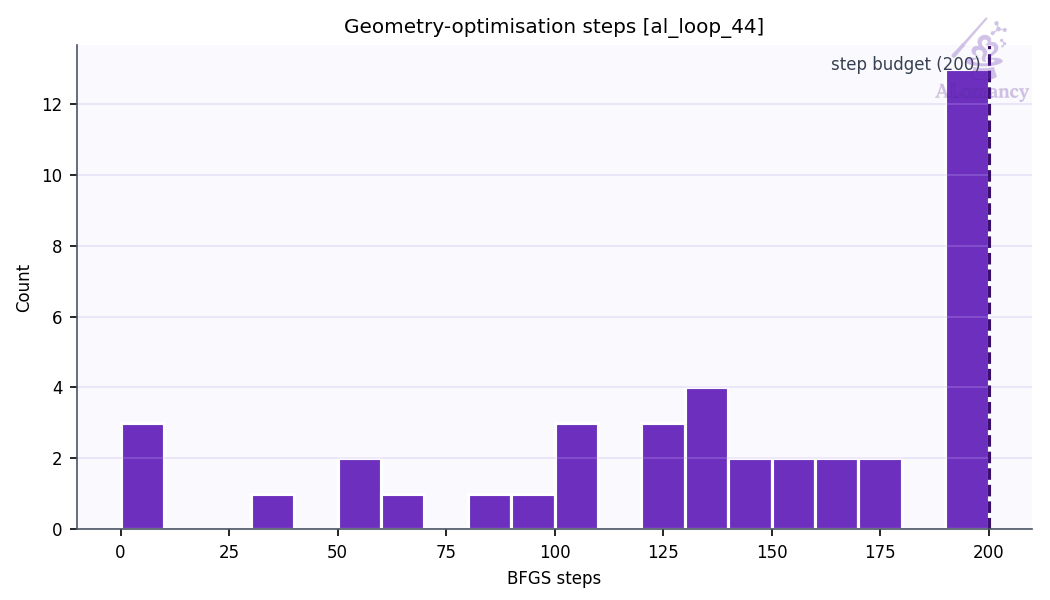
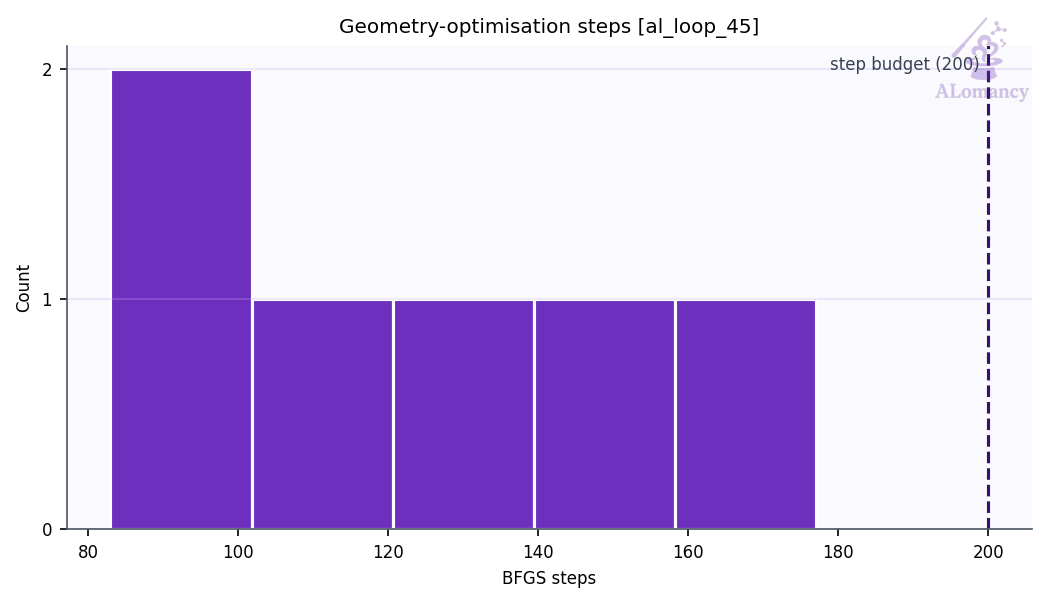
update good_c, yun_an

diff --git a/alomancy/yun_an/report/report.md b/alomancy/yun_an/report/report.md
@@ -1,36 +1,28 @@
-# ALomancy report: al_loop_44
+# ALomancy report: al_loop_45
 
-Workflow `committee_uncertainty` · trainer `mace` · generator `md` · evaluator `qe` · generated 2026-10-30T05:42:37
+Workflow `committee_uncertainty` · trainer `mace` · generator `md` · evaluator `qe` · generated 2026-10-31T11:51:28
 
-**Status:** ✖ 2 errors · ⚠ 4 warnings · 33 warning(s) logged
+**Status:** ✖ 2 errors · ⚠ 1 warning · 💡 1 info · 100 warning(s) logged
 
 ## Headline
 
-| | loop 43 | loop 44 | change |
+| | loop 44 | loop 45 | change |
 |---|---:|---:|---:|
-| Best model test force MAE (eV/Å) | 0.473 | 0.346 | -27% |
-| Best model test energy MAE (meV/atom) | 189 | 144 | -24% |
-| Training structures | 1.97e+03 | 2e+03 | +1% |
-| Test structures | 96 | 100 | +4% |
-| New structures this loop | 57 | 40 | -30% |
-| Warnings / errors logged | 39 | 33 | -15% |
+| Best model test force MAE (eV/Å) | 0.346 | 0.412 | +19% |
+| Best model test energy MAE (meV/atom) | 144 | 156 | +8% |
+| Training structures | 2e+03 | 2.01e+03 | +1% |
+| Test structures | 100 | 101 | +1% |
+| New structures this loop | 40 | 6 | -85% |
+| Warnings / errors logged | 33 | 100 | +203% |
 
-Best model: fit_3 of 5 (chosen on the `valid` split).
+Best model: fit_4 of 5 (chosen on the `valid` split).
 
 ## Issues & suggestions
 
-- ✖ **remote_jobs_failed**: 29/92 remote jobs (32%) failed (8) or died (21). Check the job logs (results/alomancy.log has each failure's traceback); jobs killed by the scheduler usually need a longer max_time for that phase, or a partition with more memory.
-- ✖ **dft_partial_failure**: 15/55 structures sent to DFT (27%) came back without a result. Check the DFT output in results/<loop>/high_accuracy_evaluation; raise high_accuracy_evaluation.max_time / max_go_time if jobs timed out.
-- ⚠ **go_not_converged**: 11/40 geometry optimisations (28%) stopped at the step budget (200 steps) before reaching the force ceiling. Raise high_accuracy_evaluation.max_num_of_relax_steps, or raise high_accuracy_evaluation.force_ceiling (now 0.05 eV/Å) so they stop earlier. Non-converged structures are still kept as training data.
-- ⚠ **short_bond_excluded**: 225/280 structures (80%) were dropped for a bond shorter than 0.5 Å. The model is driving MD into collisions: lower md_kwargs.temperature or md_kwargs.timestep_fs, or add more short-range initialization data (dimers/trimers).
-- ⚠ **fewer_candidates**: Only 55 candidates were available for 100 requested structures. Generate more: raise md_kwargs.steps or structure_selection_kwargs.num_of_md_starts.
-- ⚠ **few_candidates_generated**: Structure generation produced only 55 usable candidates, less than twice the 100 structures added per loop, so the selector had little to choose from. Raise structure_generation.num_of_structures_to_generate (and md_kwargs.steps or structure_selection_kwargs.num_of_md_starts if MD runs end early).
-
-<details><summary>Suggestions file notes</summary>
-
-- suggestions entry `selection_redundant_shortfall` has no trigger (typo?)
-
-</details>
+- ✖ **remote_jobs_failed**: 97/136 remote jobs (71%) failed (85) or died (12). Check the job logs (results/alomancy.log has each failure's traceback); jobs killed by the scheduler usually need a longer max_time for that phase, or a partition with more memory.
+- ✖ **dft_partial_failure**: 94/100 structures sent to DFT (94%) came back without a result. Check the DFT output in results/<loop>/high_accuracy_evaluation; raise high_accuracy_evaluation.max_time / max_go_time if jobs timed out.
+- ⚠ **short_bond_excluded**: 2072/3745 structures (55%) were dropped for a bond shorter than 0.5 Å. The model is driving MD into collisions: lower md_kwargs.temperature or md_kwargs.timestep_fs, or add more short-range initialization data (dimers/trimers).
+- 💡 **overfitting**: The best model's test force MAE (0.412 eV/Å) is 2.5x its training MAE (0.165 eV/Å). The test set covers configurations training doesn't: keep adding data, or raise general.dataset_kwargs.valid_fraction to select models on held-out data.
 
 ## Trends
 
@@ -45,6 +37,7 @@ Best model: fit_3 of 5 (chosen on the `valid` split).
 | 42 | 0.333 | 1926 | 34 | 34/45 | 76% | 0 | 31 |
 | 43 | 0.473 | 1971 | 57 | 57/75 | 77% | 3 | 39 |
 | 44 | 0.346 | 1997 | 40 | 40/55 | 72% | 5 | 33 |
+| 45 | 0.412 | 2007 | 6 | 6/100 | 100% | 0 | 100 |
 
 ![Best-model MAE per loop](plots/training_al_loop_mae_plot.png)
 
@@ -54,7 +47,7 @@ Best model: fit_3 of 5 (chosen on the `valid` split).
 
 ![Best model parity](plots/best_model_parity.png)
 
-Median relative error: train energy 2.3%, force 20.5%; test energy 1.8%, force 242.6%.
+Median relative error: train energy 4.3%, force 18.6%; test energy 1.8%, force 214.7%.
 Energies with |formation energy| < 0.05 eV/atom and atoms with |F| < 0.1 eV/Å are left out; force error is |ΔF|/|F| per atom.
 
 ![Best model percentage error](plots/best_model_percent_error.png)
@@ -64,16 +57,17 @@ Energies with |formation energy| < 0.05 eV/atom and atoms with |F| < 0.1 eV/Å a
 | config_type | Train | Test | Excluded: redundant | Excluded: quality filter | total |
 |---|---:|---:|---:|---:|---:|
 | IsolatedAtom | 5 | 0 | 0 | 0 | 5 |
-| high_sd | 596 | 84 | 56 | 346 | 1082 |
+| high_sd | 606 | 85 | 28 | 375 | 1094 |
 | init_MP | 69 | 4 | 0 | 0 | 73 |
 | init_amorphous | 67 | 12 | 8 | 0 | 87 |
 | init_dimer | 299 | 0 | 0 | 0 | 299 |
 | init_stretch_compress | 390 | 0 | 0 | 398 | 788 |
 | init_trimer | 571 | 0 | 0 | 0 | 571 |
-| **all** | **1997** | **100** | **64** | **744** | **2905** |
+| **all** | **2007** | **101** | **36** | **773** | **2917** |
 
-- Redundancy removal: 64 structure(s) flagged in total, 5 of this loop's 40 new.
-- Quality filters: high_force: 742, formation_energy: 174.
+- Redundancy removal: 36 structure(s) flagged in total, 0 of this loop's 6 new.
+- DFT geometry-optimisation starting frames: 6 stored this loop, 0 used (the rest excluded by the train/test filters or redundancy removal).
+- Quality filters: high_force: 771, formation_energy: 181.
 
 ![Training set composition](plots/training_set_composition.png)
 
@@ -81,28 +75,28 @@ Energies with |formation energy| < 0.05 eV/atom and atoms with |F| < 0.1 eV/Å a
 
 Redundancy removal flags near-duplicate training structures, so the model isn't trained on many copies of the same geometry. Each structure is described by `char_vec_128`: all of its interatomic distances, sorted and resampled to 128 values (`global_descriptor/atomic_distance_descriptor.make_char_vec`). Two structures count as duplicates when the Euclidean distance between their descriptors is below a tolerance: in database order, each structure still in the training set is kept unless it is within the tolerance of one already kept. The plot sweeps that tolerance and counts how many structures are kept at each value. **We are looking for plateaus** (shaded): ranges where the count doesn't change, so the result doesn't depend on the exact tolerance. The orange line (right axis) is the number of structures removed between consecutive tolerance steps, the gradient of the count: zero on a plateau. The start of the lowest plateau at least `general.redundancy_kwargs.min_plateau_width` of the swept range wide is used (dashed line). Nothing is flagged when no plateau qualifies, or when it would flag more than `max_flagged_fraction` of the structures; `general.redundancy_kwargs.tolerance` sets the tolerance directly.
 
-- This loop: 742 structures probed, tolerance 0.0398, 10 flagged as duplicates (8 plateau(s) found).
+- This loop: 778 structures probed, tolerance 0.0398, 36 flagged as duplicates (8 plateau(s) found).
 
 ![Redundancy tolerance probe](plots/redundancy_tolerance_probe.png)
 
 ## DFT
 
-- Structures: 40 returned of 55 submitted (40 relaxed, 0 single point).
-- Geometry optimisation: 29/40 reached the force ceiling (0.05 eV/Å); steps mean 136.9, median 142, max 200 of 200 allowed.
-- Average DFT time per relaxation: 277.1 min (median 287.4, max 581.5; 40 structures).
-- Largest per-atom force after DFT: median 0.05, max 0.74 eV/Å.
-- DFT phase wall-clock: 36.1 h (mean queue time 338 min).
+- Structures: 6 returned of 100 submitted (6 relaxed, 0 single point).
+- Geometry optimisation: 6/6 reached the force ceiling (0.05 eV/Å); steps mean 123.5, median 121, max 177 of 200 allowed.
+- Average DFT time per relaxation: 315.1 min (median 245.9, max 557.7; 6 structures).
+- Largest per-atom force after DFT: median 0.05, max 0.05 eV/Å.
+- DFT phase wall-clock: 17.0 h (mean queue time 413 min).
 
 ## MLIP training: mace
 
-- Best fit (fit_3) trained for 199 epochs, stage two from epoch 160; weights kept from epoch 191.
+- Best fit (fit_4) trained for 199 epochs, stage two from epoch 160; weights kept from epoch 161.
 
 ![Best model training curve](plots/best_model_training_curve.png)
 
 ## Structure generation: MD
 
-- Runs: 27 (25 completed, 3 seed(s) replaced)
-- Candidate frames: 280 (per completed run: median 9, min 2)
+- Runs: 25 (25 completed, 0 seed(s) replaced)
+- Frames: 3270 recorded, 1426 physical (no bond < 0.5 Å, seed frames left out), 500 picked as candidates, spread over each run
 - Ensemble npt, T = 300 K, timestep 0.3 fs
 
 ![MD frames per run](plots/md_frames_per_run.png)
@@ -117,7 +111,7 @@ Redundancy removal flags near-duplicate training structures, so the model isn't 
 
 ## Selection: committee uncertainty
 
-- 55 candidates scored; 55 selected (max force std dev ≥ 0 eV/Å).
+- 247 candidates scored; 100 selected (40 %; max force std dev ≥ 0 eV/Å).
 
 ![Committee force std dev](plots/committee_force_std_dev.png)
 
@@ -126,13 +120,11 @@ Redundancy removal flags near-duplicate training structures, so the model isn't 
 | event | meaning | count |
 |---|---|---:|
 | `dft_summary` | DFT batch summary | 1 |
-| `few_candidates_generated` | fewer than 2x per-loop candidates generated | 1 |
-| `fewer_candidates` | fewer candidates than requested | 1 |
-| `job_died` | remote job died (killed / lost) | 21 |
-| `job_failed` | remote job failed | 8 |
+| `job_died` | remote job died (killed / lost) | 12 |
+| `job_failed` | remote job failed | 85 |
 | `jobs_started` | remote jobs started | 5 |
-| `md_no_steps` | MD runs replaced (no MD step) | 1 |
 | `md_summary` | MD summary | 1 |
+| `mlip_relax_dropped` | candidates dropped by MLIP relaxation | 1 |
 | `quality_filtered` | train/test quality filter passes | 2 |
 | `redundancy_flagged` | redundancy removal passes | 1 |
-| `short_bond_excluded` | structures dropped for a short bond | 1 |
+| `short_bond_excluded` | structures dropped for a short bond | 2 |
